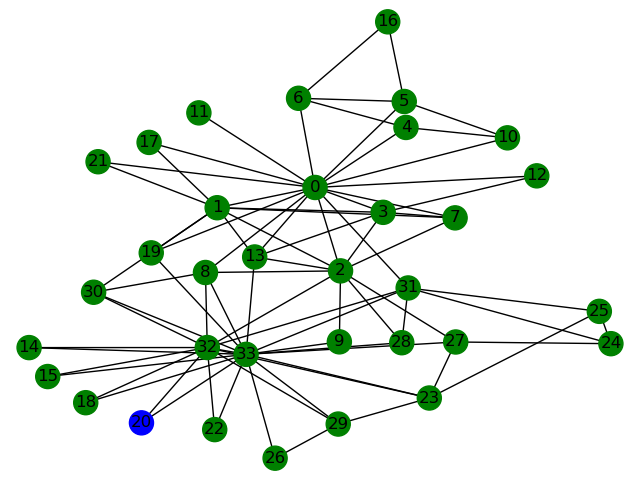
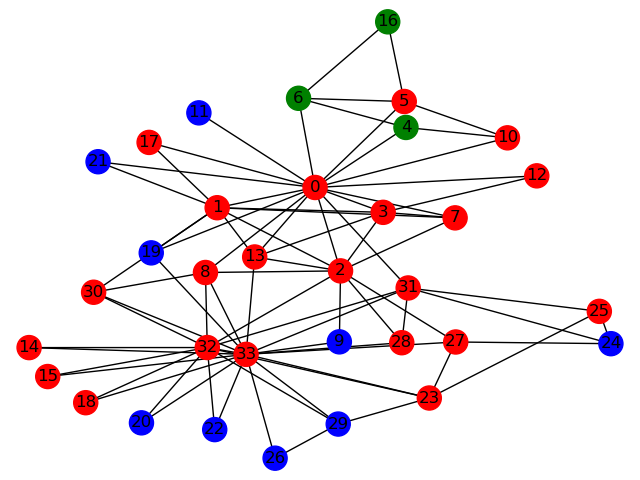
bug fixxxxed

diff --git a/SIR_model.py b/SIR_model.py
@@ -276,6 +276,8 @@ class SIR:
                 random_value  = random.random()
 
                 if random_value < self.p:
+                    # change state
+                    self.change_state([neigh], Labels.I, self.Ti)
                     node_list.append(neigh)
 
         return node_list
@@ -339,9 +341,7 @@ class SIR:
 
             # add the new current infected
             self.current_infected_list += new_infected_list
-            self.change_state(new_infected_list, Labels.I, self.Ti)
 
-            print(self.current_infected_list)
             # at the end of the transition...plot
             self.process_time_step()
 
@@ -357,11 +357,11 @@ if __name__ == "__main__":
 
     # experiment with karate club graph to test the code
     G = nx.karate_club_graph()
-    model = SIR(G, 0.3, 0.5, 5, 2, "Karate_club" )
+    model = SIR(G, 0.1, 0.2, 10, 1, "Karate_club" )
     model.run()
    
     # experiment with facebook dataset
     G = load_dataset()
 
-    model = SIR(G, 0.3, 0.5, 5, 2, "Facebook" )
+    model = SIR(G, 0.1, 0.2, 10, 1, "Facebook" )
     model.run()
